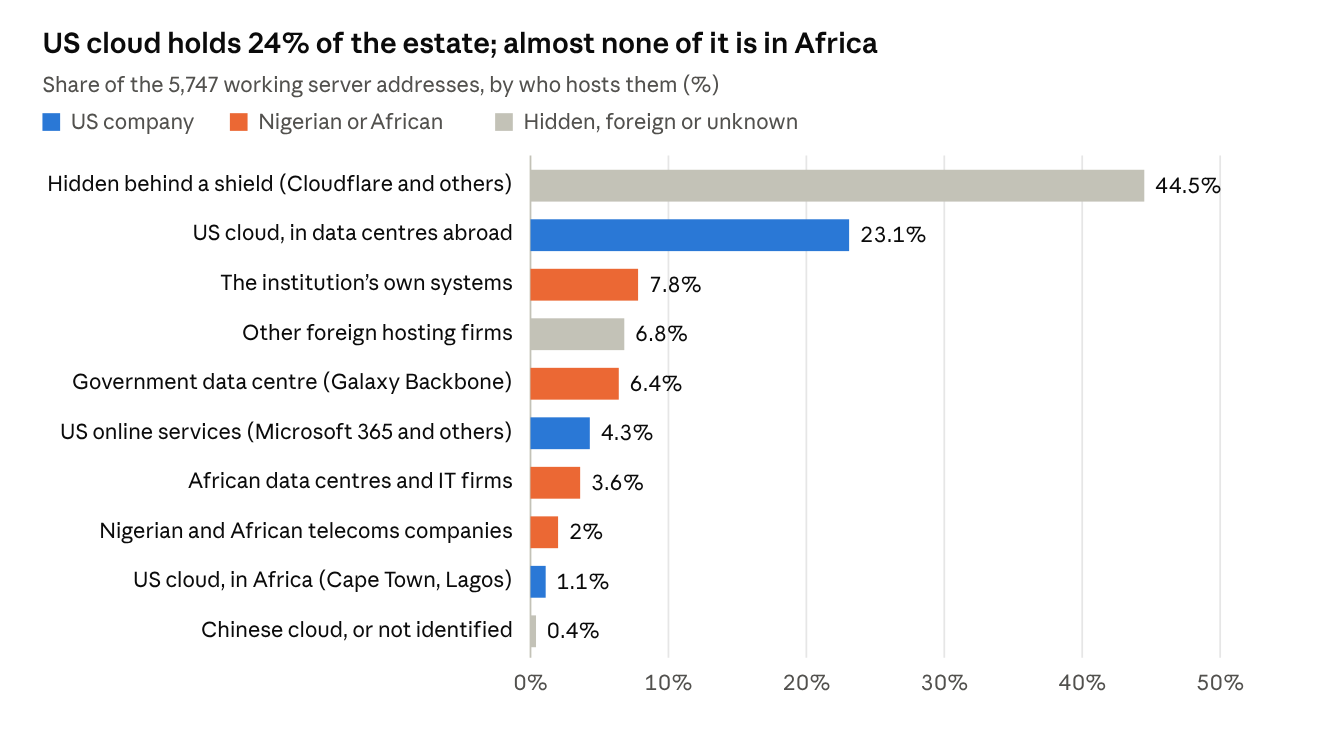
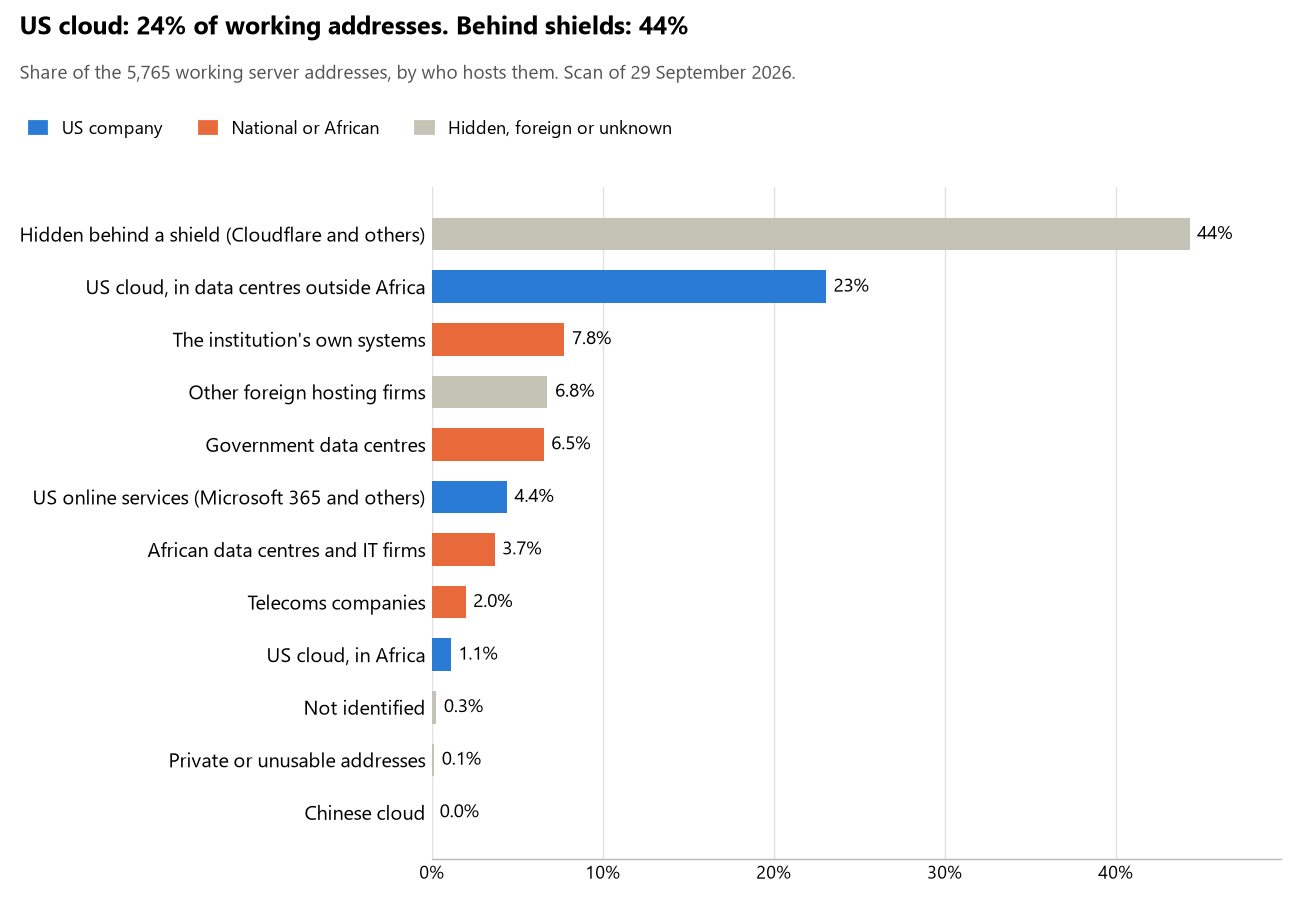
HYPERSCALER 04 NGA: institutions 52 · US 24% · shield 44% · rank 10/54 · dangling 2

diff --git a/R&D/Hyperscaler-dependence/scan/NGA/report.md b/R&D/Hyperscaler-dependence/scan/NGA/report.md
@@ -1,133 +1,137 @@
 ---
 title: Nigeria — who hosts the state's front door
-date: 2026-09-28
+date: 2026-09-29
 author: Bill Anderson
 source: R&D/Hyperscaler-dependence/scan/NGA/ (nodes.csv, organisations.csv, run.json)
-doc: https://claude.ai/code/artifact/9f237fde-6c96-4fca-a792-aec03972f4bc
+scan_date: 2026-09-29
 ---
 
 # Nigeria: who hosts the state's front door
 
-28 September 2026 · Bill Anderson
+29 September 2026 · Bill Anderson · scan of 29 September 2026
 
-About a quarter (24%) of the public-facing systems of 51 Nigerian state bodies, banks and utilities run on Amazon, Microsoft, Google or Oracle. Almost none of that (1% of the whole) is hosted in Africa. Another 44% sits behind Cloudflare and similar shields, so we can't see who hosts it. About one seventh (14%) runs on the government's Galaxy Backbone data centre or the institutions' own systems.
+The scan covered 52 state bodies, banks and state-owned companies in Nigeria. 24% of their working server addresses are on US cloud: Amazon, Microsoft, Google or Oracle. 44% are behind shields such as Cloudflare, which hide the host. 14% are on government data centres or the institutions' own systems.
 
-The scan covered the main ministries and agencies, the ten largest banks, the payment switches, the stock exchange and the state-owned companies. It found 6,665 web and mail names, pointing to 5,747 working server addresses. 36 of the 51 use US cloud for at least part of their public estate. 23 use Microsoft for email, and 2 use Google.
+The scan found 6,667 web and mail names and 5,765 working addresses. 36 of the 52 institutions use US cloud for at least part of their estate. 24 use Microsoft for email and 2 use Google.
+
+Of the 54 countries scanned so far, Nigeria has the 10th highest US cloud share (median 13%) and the 5th highest share behind shields (median 12%).
 
 ## Where it lives
 
-![US cloud holds 24% of the estate; almost none of it is in Africa](report-chart.png)
+![US cloud: 24% of working addresses; behind shields: 44%](report-chart.png)
 
-More than half of the 1,393 US-cloud addresses are Amazon's and Microsoft's worldwide delivery networks, mostly Amazon's. About a third are in Europe, mainly Microsoft's Dublin and Amsterdam data centres. Only 64 (5%) are in Africa, and just 4 use Amazon's new Lagos zone. The rest are in the US, in India or not placed.
+1,393 addresses are on US cloud. Where they are: 55% on worldwide delivery networks (no fixed location), 31% in Europe, 5% in Africa, 4% in North America, 3% in a region the providers do not publish and 3% in Asia or the Middle East.
 
-The shield share is the part we cannot see into. Cloudflare fronts most of it, with F5 and Imperva most of the rest. The servers behind them could be anywhere, including on US cloud, so the 24% is a floor, not a ceiling. Nigeria also leans on cheap foreign web hosts (7%) three times as much as Kenya or South Africa.
+2,555 addresses are behind shields: Cloudflare (81%), F5 (11%) and Imperva (7%). The host behind a shield cannot be seen, so the US cloud share is a minimum.
 
 ## Banks against government
 
-In Nigeria the government leans on US cloud almost twice as much as the banks do. The banks hide two thirds of their estate behind shields.
-
-| Share of working addresses | Government (41 bodies) | Banks (10) |
+| Share of working addresses | Government (42) | Banks (10) |
 | --- | --- | --- |
 | On US cloud | 30% | 16% |
-| …of which hosted in Africa | 2% | 0% |
+| …of which in Africa | 2% | <1% |
 | US online services (Microsoft 365 and others) | 5% | 3% |
-| Hidden behind a shield | 28% | 66% |
-| Government data centre (Galaxy Backbone) | 11% | — |
-| Run by the institution itself | 6% | 11% |
-| Cheap foreign web hosts | 10% | 2% |
-| African data centres and telecoms companies | 9% | 1% |
+| Behind a shield | 28% | 65% |
+| Government data centres | 12% | 0% |
+| Run by the institution itself | 5% | 11% |
+| Telecoms companies | 3% | 1% |
+| African data centres and IT firms | 7% | <1% |
+| Other foreign hosting firms | 10% | 2% |
 
-"Government" here includes the Central Bank, the two payment switches, the stock exchange and the state-owned companies. All ten banks use US cloud somewhere; so do 26 of the 41 government bodies.
+10 of 10 banks and 26 of 42 government bodies use US cloud somewhere. "Government" includes the central bank, the payment switch, the stock exchange and the state-owned companies.
 
 ## Email
 
-Microsoft carries the email of 23 of the 51 institutions. The core of government, though, runs its mail through Galaxy Backbone, the state's own data centre.
+24 of the 52 institutions use Microsoft 365 for email and 2 use Google.
 
-- **Microsoft 365:** 23, including the Central Bank, both revenue services, the Finance ministry, NIBSS and seven of the ten banks.
-- **Galaxy Backbone:** 11. They are State House, Defence, the Army, the Police, Foreign Affairs, Justice, Interior, Health, the Accountant-General, the Auditor-General and NIGCOMSAT.
-- **Their own mail servers:** 4. They are Galaxy Backbone itself, the National ID authority, the National Assembly and the electoral commission.
-- **Nigerian providers:** 5. The DSS and ngCERT use Backbone Connectivity Network, the EFCC uses Layer3 and the SEC uses MTN and MainOne. Customs uses its trade-system concessionaire.
-- **Google:** 2. They are the National Judicial Council and the Immigration Service.
-- **Other foreign providers:** 5. First Bank's mail runs on Amazon and the Transmission Company's on Microsoft Azure. Sterling Bank uses Zoho, the health insurance authority uses Contabo (a German budget server firm) and the ICPC uses a foreign web host.
-- **No mail on the domain scanned:** Stanbic IBTC.
+- **Microsoft 365:** 24. Federal Ministry of Finance, Federal Inland Revenue Service, Nigeria Revenue Service, Central Bank of Nigeria, Zenith Bank, Access Bank, United Bank for Africa, Guaranty Trust Bank, Fidelity Bank, First City Monument Bank, Union Bank, Nigeria Data Protection Commission, National Bureau of Statistics, National Social Safety-Nets Coordinating Office, Abuja Geographic Information Systems (FCT lands registry), Nigeria Inter-Bank Settlement System (NIBSS), Interswitch, Nigerian Exchange Group, Nigeria Sovereign Investment Authority, National Pension Commission, Bureau of Public Procurement, Nigerian Ports Authority, National Information Technology Development Agency (NITDA) and Nigerian Communications Commission.
+- **Google:** 2. National Judicial Council and Nigeria Immigration Service.
+- **Government data centre:** 12. State House (Galaxy Backbone), National Assembly (National Assembly Abuja), Ministry of Foreign Affairs (Galaxy Backbone), Ministry of Defence (Galaxy Backbone), Nigeria Police Force (Galaxy Backbone), Federal Ministry of Justice (Galaxy Backbone), Office of the Accountant-General of the Federation (Galaxy Backbone), Federal Ministry of Interior (Galaxy Backbone), Federal Ministry of Health (Galaxy Backbone), NIGCOMSAT (Galaxy Backbone), ngCERT (Galaxy Backbone) and Office of the Auditor-General for the Federation (Galaxy Backbone).
+- **Own mail servers:** 2. National Identity Management Commission and Galaxy Backbone.
+- **Telecoms companies:** 2. Nigerian Army (Globacom) and Department of State Services (Backbone Connectivity Network).
+- **African hosts:** 3. Nigeria Customs Service (Trade Modernisation Project), Securities and Exchange Commission (MainOne) and Economic and Financial Crimes Commission (Layer3).
+- **US cloud:** 1. Transmission Company of Nigeria.
+- **Foreign hosting firms:** 3. Sterling Bank (Zoho), National Health Insurance Authority (Contabo) and Independent Corrupt Practices Commission (Cyberspace).
+- **Behind a mail filter, provider not visible:** 1. First Bank of Nigeria.
+- **Not identified (INEC):** 1. Independent National Electoral Commission.
+- **No mail on the domain scanned:** 1. Stanbic IBTC.
 
 ## Institution by institution
 
-The data protection regulator, the stock exchange, the ID authority and the electoral commission lean hardest on US cloud. Fidelity Bank, the EFCC, Customs and ngCERT hide almost everything behind a shield. Each figure is a share of that institution's working addresses. Whatever a row does not add up to sits with telecoms companies, African data centres, US online services or foreign hosts.
+Each figure is a share of that institution's working addresses. The rest are with telecoms companies, African data centres, US online services or foreign hosts. Rows follow the order of institution types.
 
-| Institution | Sector | On US cloud | …of which in Africa | Behind a shield | Own or government | Email |
+| Institution | Type | On US cloud | …in Africa | Behind a shield | Own or government | Email |
 | --- | --- | --- | --- | --- | --- | --- |
-| Data Protection Commission | Government | 95% | 76% | 0% | 0% | Microsoft |
-| Nigerian Exchange Group | Government | 93% | 0% | 2% | 1% | Microsoft |
-| National ID (NIMC) | Government | 84% | 0% | 1% | 11% | Own servers |
-| Electoral commission (INEC) | Government | 80% | 0% | 7% | 0% | Own servers |
-| National Assembly | Government | 47% | 0% | 0% | 47% | Own servers |
-| National Pension Commission | Government | 46% | 0% | 0% | 4% | Microsoft |
-| Health insurance (NHIA) | Government | 44% | 19% | 0% | 0% | Contabo |
-| Nigeria Police Force | Government | 42% | 0% | 0% | 32% | Galaxy Backbone |
-| First City Monument Bank | Bank | 41% | 1% | 28% | 12% | Microsoft |
-| Zenith Bank | Bank | 39% | 0% | 15% | 41% | Microsoft |
-| National Bureau of Statistics | Government | 38% | 0% | 0% | 17% | Microsoft |
-| Nigeria Immigration Service | Government | 37% | 0% | 0% | 28% | Google |
-| United Bank for Africa | Bank | 35% | 0% | 32% | 26% | Microsoft |
-| Guaranty Trust Bank | Bank | 31% | 0% | 18% | 31% | Microsoft |
-| Central Bank of Nigeria | Government | 28% | 1% | 56% | 15% | Microsoft |
-| Stanbic IBTC | Bank | 28% | 0% | 66% | 7% | — |
-| Union Bank | Bank | 27% | 0% | 19% | 44% | Microsoft |
-| NIBSS (payment switch) | Government | 27% | 0% | 42% | 16% | Microsoft |
-| First Bank of Nigeria | Bank | 26% | 0% | 34% | 36% | Amazon |
-| Bureau of Public Procurement | Government | 25% | 0% | 0% | 25% | Microsoft |
-| Transmission Company (TCN) | Government | 25% | 0% | 4% | 8% | Microsoft Azure |
-| Nigeria Revenue Service | Government | 25% | 1% | 11% | 0% | Microsoft |
-| Sovereign wealth fund (NSIA) | Government | 23% | 0% | 46% | 0% | Microsoft |
-| Federal Ministry of Interior | Government | 19% | 0% | 0% | 54% | Galaxy Backbone |
-| Access Bank | Bank | 17% | 0% | 72% | 2% | Microsoft |
-| National Judicial Council | Government | 15% | 13% | 0% | 0% | Google |
-| Nigerian Ports Authority | Government | 15% | 0% | 44% | 39% | Microsoft |
-| Sterling Bank | Bank | 15% | 0% | 78% | 0% | Zoho |
-| Securities regulator (SEC) | Government | 14% | 0% | 9% | 0% | MTN Nigeria |
-| Federal Inland Revenue Service | Government | 13% | 0% | 7% | 6% | Microsoft |
-| Interswitch | Government | 13% | 0% | 75% | 0% | Microsoft |
-| NITDA | Government | 10% | 0% | 0% | 36% | Microsoft |
-| Federal Ministry of Health | Government | 7% | 2% | 0% | 88% | Galaxy Backbone |
-| Nigerian Communications Commission | Government | 2% | 0% | 69% | 1% | Microsoft |
-| Nigeria Customs Service | Government | 1% | 0% | 88% | 0% | Trade Modernisation Project |
-| Fidelity Bank | Bank | 1% | 0% | 97% | 0% | Microsoft |
-| State House | Government | 0% | 0% | 0% | 94% | Galaxy Backbone |
-| Ministry of Foreign Affairs | Government | 0% | 0% | 9% | 78% | Galaxy Backbone |
-| Ministry of Defence | Government | 0% | 0% | 0% | 93% | Galaxy Backbone |
-| Nigerian Army | Government | 0% | 0% | 4% | 4% | Galaxy Backbone |
-| Federal Ministry of Justice | Government | 0% | 0% | 0% | 93% | Galaxy Backbone |
-| Federal Ministry of Finance | Government | 0% | 0% | 0% | 50% | Microsoft |
-| Accountant-General | Government | 0% | 0% | 0% | 89% | Galaxy Backbone |
-| Department of State Services | Government | 0% | 0% | 23% | 23% | Backbone Connectivity Network |
-| Social safety-nets office | Government | 0% | 0% | 0% | 0% | Microsoft |
-| NIGCOMSAT | Government | 0% | 0% | 52% | 48% | Galaxy Backbone |
-| Galaxy Backbone | Government | 0% | 0% | 0% | 100% | Own servers |
-| ngCERT | Government | 0% | 0% | 88% | 7% | Backbone Connectivity Network |
-| Auditor-General | Government | 0% | 0% | 0% | 100% | Galaxy Backbone |
-| Anti-corruption (EFCC) | Government | 0% | 0% | 95% | 0% | Layer3 |
-| Anti-corruption (ICPC) | Government | 0% | 0% | 24% | 30% | Cyberspace |
+| State House | Presidency | 0% | 0% | 0% | 94% | Government |
+| National Assembly | Parliament | 47% | 0% | 0% | 47% | Government |
+| Ministry of Foreign Affairs | Foreign Affairs | 0% | 0% | 9% | 78% | Government |
+| Ministry of Defence | Defence | 0% | 0% | 0% | 93% | Government |
+| Nigerian Army | Armed Forces | 0% | 0% | 4% | 4% | Telecoms |
+| Nigeria Police Force | Police | 42% | 0% | 0% | 32% | Government |
+| Federal Ministry of Justice | Justice | 0% | 0% | 0% | 93% | Government |
+| National Judicial Council | Justice | 15% | 13% | 0% | 0% | Google |
+| Federal Ministry of Finance | Treasury / Finance | 0% | 0% | 0% | 44% | Microsoft |
+| Office of the Accountant-General of the Federation | Treasury / Finance | 0% | 0% | 0% | 89% | Government |
+| Federal Inland Revenue Service | Revenue Service | 13% | 0% | 7% | 6% | Microsoft |
+| Nigeria Revenue Service | Revenue Service | 23% | 1% | 10% | 0% | Microsoft |
+| Nigeria Customs Service | Customs | 1% | 0% | 88% | 0% | African host |
+| Department of State Services | Intelligence | 0% | 0% | 23% | 23% | Telecoms |
+| Federal Ministry of Interior | Interior / Home Affairs | 19% | 0% | 0% | 54% | Government |
+| Central Bank of Nigeria | Central Bank | 28% | <1% | 56% | 15% | Microsoft |
+| Zenith Bank | Commercial Banks | 39% | 0% | 15% | 41% | Microsoft |
+| Access Bank | Commercial Banks | 17% | 0% | 72% | 2% | Microsoft |
+| First Bank of Nigeria | Commercial Banks | 26% | 0% | 35% | 36% | Filtered |
+| United Bank for Africa | Commercial Banks | 35% | 0% | 32% | 26% | Microsoft |
+| Guaranty Trust Bank | Commercial Banks | 31% | 0% | 17% | 31% | Microsoft |
+| Fidelity Bank | Commercial Banks | <1% | 0% | 97% | <1% | Microsoft |
+| First City Monument Bank | Commercial Banks | 41% | <1% | 28% | 12% | Microsoft |
+| Stanbic IBTC | Commercial Banks | 28% | 0% | 66% | 7% | — |
+| Union Bank | Commercial Banks | 26% | 0% | 18% | 42% | Microsoft |
+| Sterling Bank | Commercial Banks | 15% | 0% | 76% | 0% | Foreign host |
+| National Identity Management Commission | Civil registry / National ID authority | 84% | 0% | 1% | 11% | Own servers |
+| Nigeria Immigration Service | Immigration / Passports | 37% | 0% | 0% | 27% | Google |
+| Nigeria Data Protection Commission | Data protection authority | 95% | 76% | 0% | 0% | Microsoft |
+| Independent National Electoral Commission (INEC) | Electoral commission | 80% | 0% | 7% | 0% | Not identified |
+| National Bureau of Statistics | Statistics office | 28% | 0% | 0% | 13% | Microsoft |
+| Federal Ministry of Health | Health ministry / National health insurance | 7% | 2% | 0% | 88% | Government |
+| National Health Insurance Authority | Health ministry / National health insurance | 44% | 19% | 0% | 0% | Foreign host |
+| National Social Safety-Nets Coordinating Office | Social protection / Social registry | 0% | 0% | 0% | 0% | Microsoft |
+| Abuja Geographic Information Systems (FCT lands registry) | Land registry | 0% | 0% | 0% | 79% | Microsoft |
+| Nigeria Inter-Bank Settlement System (NIBSS) | National payment switch | 26% | 0% | 41% | 15% | Microsoft |
+| Interswitch | National payment switch | 13% | <1% | 75% | 0% | Microsoft |
+| Nigerian Exchange Group | Stock exchange | 94% | 0% | 2% | <1% | Microsoft |
+| Securities and Exchange Commission | Securities regulator | 14% | 0% | 9% | 0% | African host |
+| Nigeria Sovereign Investment Authority | Sovereign wealth fund / National pension fund | 25% | 0% | 50% | 0% | Microsoft |
+| National Pension Commission | Sovereign wealth fund / National pension fund | 46% | 0% | 0% | 4% | Microsoft |
+| Bureau of Public Procurement | Public procurement authority | 27% | 0% | 0% | 27% | Microsoft |
+| Transmission Company of Nigeria | Energy utility | 25% | 0% | 4% | 8% | US cloud |
+| Nigerian Ports Authority | Ports authority | 15% | 0% | 44% | 39% | Microsoft |
+| NIGCOMSAT | State-owned telco / National backbone operator | 0% | 0% | 52% | 48% | Government |
+| National Information Technology Development Agency (NITDA) | E-government agency | 10% | 0% | 0% | 36% | Microsoft |
+| Galaxy Backbone | National data centre / Government cloud operator | 0% | 0% | 0% | 100% | Own servers |
+| ngCERT | Cybersecurity agency / National CERT | 0% | 0% | 88% | 9% | Government |
+| Nigerian Communications Commission | Communications regulator | 2% | 0% | 72% | <1% | Microsoft |
+| Office of the Auditor-General for the Federation | Audit office | 0% | 0% | 0% | 100% | Government |
+| Economic and Financial Crimes Commission | Anti-corruption commission | 0% | 0% | 95% | 0% | African host |
+| Independent Corrupt Practices Commission | Anti-corruption commission | 0% | 0% | 24% | 30% | Foreign host |
 
 ## What stood out
 
-- **The core of the state is the most home-grown of the three countries.** State House, Defence, Justice, the Accountant-General and the Auditor-General keep 89–100% of their estate on Galaxy Backbone, with their mail there too. Nothing like it appears in Kenya or South Africa.
-- **The electoral commission runs on Amazon in the US and Ireland.** 80% of INEC's estate is on Amazon, most of it in Virginia.
-- **The national ID authority fronts its services through Amazon.** 84% of NIMC's estate is on US cloud, nearly all of it Amazon's worldwide delivery network.
-- **The data protection regulator hosts in South Africa.** 95% of the Nigeria Data Protection Commission's estate is on Amazon, three quarters of it in Cape Town. The body that enforces where Nigerians' data may go keeps its own outside Nigeria.
-- **Amazon's Lagos zone is barely used.** Only 4 addresses in the whole scan use it.
-- **The judiciary's website sits with budget foreign hosts.** Most of the National Judicial Council's web estate is with WHG, a UK hosting firm, and Hawk Host, a Canadian one.
-- **A little Chinese cloud.** One Zenith Bank address, apparently for security cameras, runs on Huawei Cloud.
-- **Three government web addresses point at deleted cloud names that anyone could claim.** They are at the Central Bank, the Health ministry and the Accountant-General. Whoever claims them could publish under those addresses. We have flagged them and are not naming them here.
+- **Most on US cloud.** Nigeria Data Protection Commission (95%), Nigerian Exchange Group (94%), National Identity Management Commission (84%) and Independent National Electoral Commission (INEC) (80%) have more than half their working addresses on US cloud.
+- **US cloud in Africa.** Nigeria Data Protection Commission has 76% of its working addresses in US cloud data centres in Africa, the highest share in Nigeria.
+- **Core state bodies at home.** State House (94%), Ministry of Defence (93%), Federal Ministry of Justice (93%) and Office of the Accountant-General of the Federation (89%) keep at least 80% of their working addresses on government data centres or their own systems.
+- **Core state bodies on foreign hosting firms.** National Assembly (DreamHost), Ministry of Defence (IONOS), Nigeria Police Force (DigitalOcean and A2 Hosting), Federal Ministry of Justice (Akamai Connected Cloud (Linode) and 24 Shells), National Judicial Council (Hosting and Hawk Host) and Federal Ministry of Finance (Namecheap), and 6 more.
+- **Chinese cloud.** 1 address, all at Zenith Bank, is on Chinese cloud.
+- **Names anyone could claim.** 2 web addresses at Central Bank of Nigeria and Federal Ministry of Health point at a deleted cloud name that anyone could register and then publish under. We have flagged them and do not name them here.
 
 ## What this can and cannot tell you
 
-The scan sees only the front door: websites, email, login portals, remote-access gateways and online banking. It cannot see where a bank's core ledger, the ID register or the payroll actually run.
+The scan sees only the front door: websites, email, login portals, remote-access gateways and online banking. It cannot see where a bank's core ledger, the ID register or the payroll run.
 
-- **Every US figure is a floor.** Anything behind a shield or a mail filter could also be on US cloud, and we cannot tell.
-- **It counts addresses, not importance.** An institution with many test and marketing sites weighs more than one with a few, whatever those sites do.
-- **The list of institutions was drawn up for this scan.** Each domain was checked to exist, but not formally confirmed as the institution's main one.
-- **It is a snapshot.** Every figure is as of 28 September 2026. Running the scan again in a year shows which way each institution is moving.
-- **Nothing was touched.** The scan used public address lookups, public certificate records and the cloud companies' own published address lists. It never connected to any institution's systems.
+- **Every US figure is a minimum.** Anything behind a shield or a mail filter could also be on US cloud. In Nigeria that is 44% of working addresses.
+- **It counts addresses, not importance.** An institution with many test and marketing sites weighs more than one with few.
+- **The list of institutions was drawn up for this scan.** Each domain was checked to exist, not confirmed as the institution's main one.
+- **It is a snapshot.** Every figure is as of 29 September 2026.
+- **Nothing was touched.** The scan used public address lookups, public certificate records and the cloud companies' published address lists. It never connected to any institution's systems.
 
 The data and method are in `R&D/Hyperscaler-dependence/scan/NGA/` and `R&D/Hyperscaler-dependence/HYPERSCALER-SCAN.md` in the Corpus repository.

diff --git a/logs/log.md b/logs/log.md
@@ -12,6 +12,7 @@ title: Corpus process log
 *(**`status-init` joined the log on 2026-08-16** and writes one line per country, not per session. Before that it rewrote status reports and committed them while leaving no trace here, so the log implied `outputs/` only ever moves under BUILD — untrue since the campaign began, and the lines above 12:21 on 2026-08-16 are the gap it left. Nothing has been backfilled: the runs are in git, and a hand-written line dated to a run nobody logged is a worse record than an admitted hole.)*
 
 <!-- newest first: a new entry goes directly below this line -->
+2026-09-29 15:54 · **HYPERSCALER** · unclocked · 04 NGA: institutions 52 · US 24% · shield 44% · rank 10/54 · dangling 2
 2026-09-29 15:53 · **HYPERSCALER** · unclocked · 04 KEN: institutions 51 · US 11% · shield 49% · rank 31/54 · dangling 1
 2026-09-29 15:53 · **HYPERSCALER** · unclocked · 04 ZAF: institutions 51 · US 28% · shield 27% · rank 6/54 · dangling 3
 2026-09-29 15:52 · **HYPERSCALER** · unclocked · 02 NGA crt.sh re-run: institutions 52 · names 6667 · routable 5765 · us-hyperscaler 24% (african region 1%) · m365 24 · google 2 · cdn-fronted 44% · national/self 14% · unattributed 15
